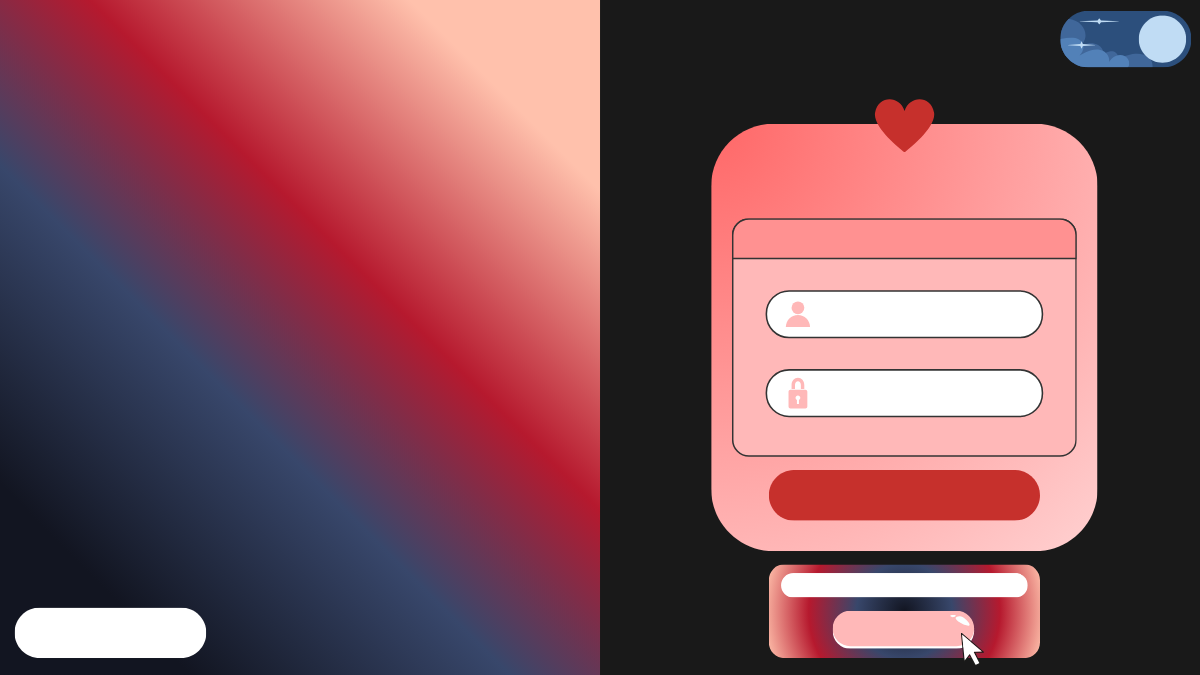
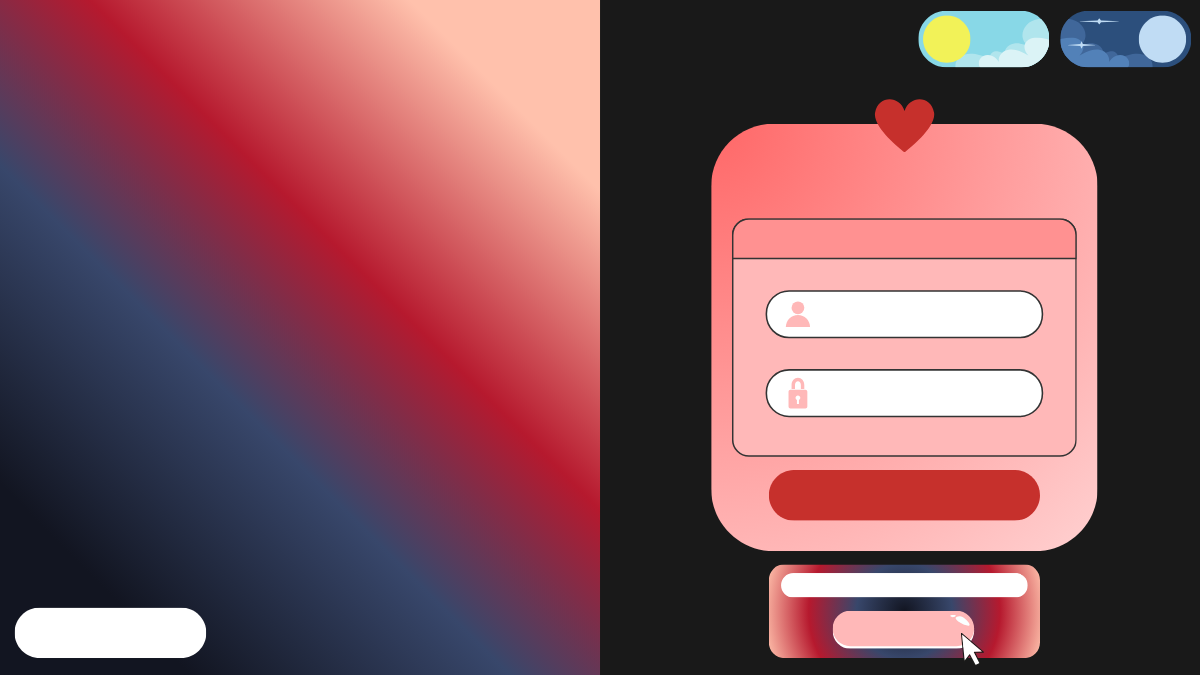
Imagenes corregidas

Changed region(s): [[0.74, 0.0, 0.8942, 0.1244]]

diff --git a/ProyectoFinal/src/co/edu/unbosque/view/VentanaRegistroAdministrador.java b/ProyectoFinal/src/co/edu/unbosque/view/VentanaRegistroAdministrador.java
@@ -59,7 +59,7 @@ public class VentanaRegistroAdministrador extends JFrame {
 		this.setResizable(false);
 		this.setLocationRelativeTo(null);
 
-		fondo = new ImageIcon("src/co/edu/unbosque/view/VentanaRegistroAdministrador.PNG");
+		fondo = new ImageIcon("src/co/edu/unbosque/view/VentanaRegistroAdminOscuro.PNG");
 		escalar = fondo.getImage().getScaledInstance(1200, 675, Image.SCALE_SMOOTH);
 		fondoRegistro = new JLabel(new ImageIcon(escalar));
 		fondoRegistro.setLayout(null);

diff --git a/ProyectoFinal/src/co/edu/unbosque/view/VentanaInicioSesionAdmin.java b/ProyectoFinal/src/co/edu/unbosque/view/VentanaInicioSesionAdmin.java
@@ -44,7 +44,7 @@ public class VentanaInicioSesionAdmin extends JFrame {
 		this.setResizable(false);
 		this.setLocationRelativeTo(null);
 
-		fondo = new ImageIcon("src/co/edu/unbosque/view/VentanaInicioSesionAdmin.PNG");
+		fondo = new ImageIcon("src/co/edu/unbosque/view/VentanaIniciarSesionAdminOscuro.PNG");
 		escalar = fondo.getImage().getScaledInstance(1200, 675, Image.SCALE_SMOOTH);
 		fondoMenu = new JLabel(new ImageIcon(escalar));
 		fondoMenu.setLayout(null);

diff --git a/ProyectoFinal/src/co/edu/unbosque/view/VentanaRegistroHombre.java b/ProyectoFinal/src/co/edu/unbosque/view/VentanaRegistroHombre.java
@@ -84,7 +84,7 @@ public class VentanaRegistroHombre extends JFrame {
 		this.setResizable(false);
 		this.setLocationRelativeTo(null);
 
-		fondo = new ImageIcon("src/co/edu/unbosque/view/VentanaRegistroHombre.PNG");
+		fondo = new ImageIcon("src/co/edu/unbosque/view/VentanaRegistroHombreOscuro.PNG");
 		escalar = fondo.getImage().getScaledInstance(1200, 675, Image.SCALE_SMOOTH);
 		fondoRegistro = new JLabel(new ImageIcon(escalar));
 		fondoRegistro.setLayout(null);

diff --git a/ProyectoFinal/src/co/edu/unbosque/view/VentanaRegistroMujer.java b/ProyectoFinal/src/co/edu/unbosque/view/VentanaRegistroMujer.java
@@ -82,7 +82,7 @@ public class VentanaRegistroMujer extends JFrame {
 		this.setResizable(false);
 		this.setLocationRelativeTo(null);
 
-		fondo = new ImageIcon("src/co/edu/unbosque/view/VentanaRegistroMujer.PNG");
+		fondo = new ImageIcon("src/co/edu/unbosque/view/VentanaRegistroMujerOscuro.PNG");
 		escalar = fondo.getImage().getScaledInstance(1200, 675, Image.SCALE_SMOOTH);
 		fondoRegistro = new JLabel(new ImageIcon(escalar));
 		fondoRegistro.setLayout(null);

diff --git a/ProyectoFinal/src/co/edu/unbosque/view/VentanaEscogerGenero.java b/ProyectoFinal/src/co/edu/unbosque/view/VentanaEscogerGenero.java
@@ -35,7 +35,7 @@ public class VentanaEscogerGenero extends JFrame {
 		this.setResizable(false);
 		this.setLocationRelativeTo(null);
 
-		fondo = new ImageIcon("src/co/edu/unbosque/view/VentanaGenero.PNG");
+		fondo = new ImageIcon("src/co/edu/unbosque/view/VentanaEscogerGeneroOscuro.PNG");
 		escalar = fondo.getImage().getScaledInstance(1200, 675, Image.SCALE_SMOOTH);
 		fondoRegistro = new JLabel(new ImageIcon(escalar));
 		fondoRegistro.setLayout(null);

diff --git a/ProyectoFinal/src/co/edu/unbosque/view/VentanaFuncionesAdmin.java b/ProyectoFinal/src/co/edu/unbosque/view/VentanaFuncionesAdmin.java
@@ -40,7 +40,7 @@ public class VentanaFuncionesAdmin extends JFrame {
 		this.setResizable(false);
 		this.setLocationRelativeTo(null);
 
-		fondo = new ImageIcon("src/co/edu/unbosque/view/VentanaAdmin.PNG");
+		fondo = new ImageIcon("src/co/edu/unbosque/view/VentanaFuncionesAdminOscuro.PNG");
 		escalar = fondo.getImage().getScaledInstance(1200, 675, Image.SCALE_SMOOTH);
 		fondoCRUD = new JLabel(new ImageIcon(escalar));
 		fondoCRUD.setLayout(null);

diff --git a/ProyectoFinal/src/co/edu/unbosque/view/VentanaPerfil.java b/ProyectoFinal/src/co/edu/unbosque/view/VentanaPerfil.java
@@ -41,7 +41,7 @@ public class VentanaPerfil extends JFrame {
 		this.setResizable(false);
 		this.setLocationRelativeTo(null);
 
-		fondo = new ImageIcon("src/co/edu/unbosque/view/VentanaPerfil.PNG");
+		fondo = new ImageIcon("src/co/edu/unbosque/view/VentanaPerfilOscuro.PNG");
 		escalar = fondo.getImage().getScaledInstance(1200, 675, Image.SCALE_SMOOTH);
 		fondoCRUD = new JLabel(new ImageIcon(escalar));
 		fondoCRUD.setLayout(null);
